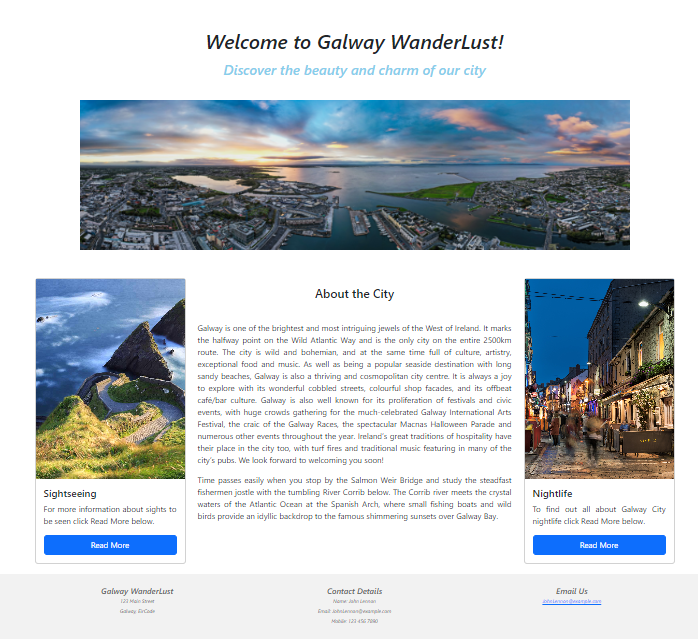
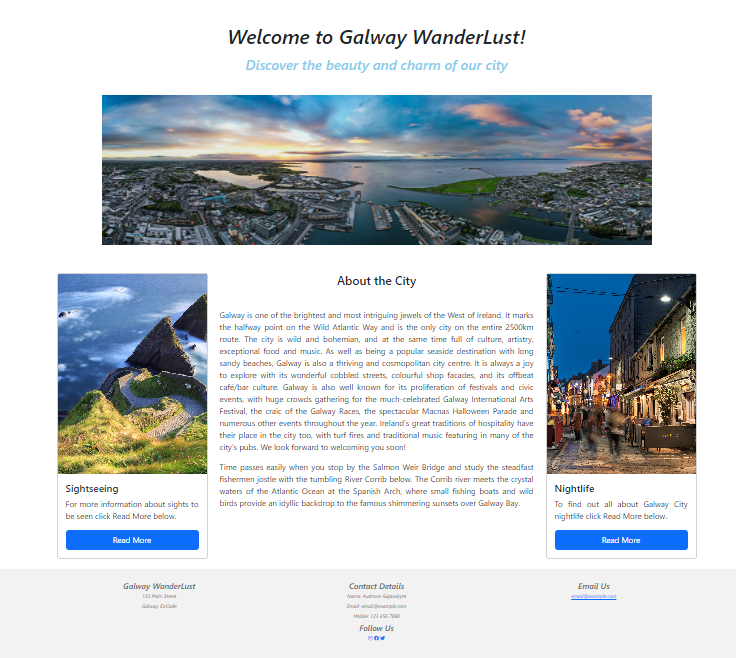
Edited some files

diff --git a/app.css b/app.css
@@ -1,21 +1,3 @@
-/* Center the image and text */
-.text-center {
-    text-align: center;
-}
-
-/* Center the image */
-.center-image {
-    display: flex;
-    justify-content: center;
-    align-items: center;
-    text-align: center;
-}
-
-/* Add padding after the image */
-.padded-image {
-    margin-bottom: 20px;
-}
-
 /* Styling for navbar */
 .navbar {
 	position: static;
@@ -33,7 +15,7 @@
 
 /* Styling for the container */
 .container {
-	padding: 20px
+	padding: 20px;
 }
 
 /* Styling for headers */
@@ -54,9 +36,6 @@ h2 {
 h3 {
 	color: skyblue;
 	font-style: italic;
-}
-
-h3 {
 	padding-bottom: 35px;
 }
 
@@ -104,9 +83,6 @@ h5 {
 /* Styling for columns */
 .col-sm-6 {
 	text-align: justify;
-}
-
-.col-sm-6 {
 	padding-top: 15px;
 }
 
@@ -123,13 +99,13 @@ h5 {
 }
 
 /* Styling for buttons */
-.btn btn-primary ml-lg-3 {
+.btn.btn-primary.ml-lg-3 {
 	background-color: white;
 	color: black;
 	border: 2px solid #008CBA;
 }
 
-.btn btn-primary {
+.btn.btn-primary {
 	background-color: white;
 	color: black;
 	border: 2px solid #008CBA;
@@ -145,7 +121,7 @@ h5 {
 	transform: scaleX(-1);
 }
 
-/*  Styling for form-group elements */
+/* Styling for form-group elements */
 .form-group {
 	margin: 15px;
 }
@@ -167,7 +143,6 @@ main {
 .remove-button {
 	background-color: darkgreen;
 	color: white;
-
 }
 
 /* Styling for footer */
@@ -191,6 +166,11 @@ footer h6 {
 
 footer p {
 	margin-bottom: 5px; /* Spacing above the footer */
+}
+
+/* Custom CSS for centering */
+.text-center {
+    text-align: center;
 }
 
 /* Responsive styling */
@@ -254,7 +234,3 @@ footer p {
         padding: 15px;
     }
 }
-
-
-
-

diff --git a/About.html b/About.html
@@ -71,8 +71,8 @@
                                 humour to each tour. Many of our returning customers will plan a trip around a specific driver as they had so much fun in the past.
                             </p>
 
-                            <div class="center-image" class="padded-image">
-                                <img class="flip" src="Images/GalwayScenery.jpg" alt="Panoramic View Over the Claddagh in Galway City" width="850" height="300">
+                            <div class="text-center">
+                                <img class="flip" src="Images/GalwayScenery.jpg" alt="Panoramic View Over the Claddagh in Galway City" width="940" height="350">
                             </div>
 
                             <p>

diff --git a/index.html b/index.html
@@ -46,7 +46,7 @@
     <div class="container text-center">
         <h1>Welcome to Galway WanderLust!</h1>
         <h3>Discover the beauty and charm of our city</h3>
-        <img src="Images/galwayDroneView.jpg" alt="Birds-eye View of Galway" width="1100" height="300" class="center-image">
+        <img src="Images/galwayDroneView.jpg" alt="Birds-eye View of Galway" width="1100" height="300" class="mx-auto d-block">
     </div>
 
         <!-- Bootsrap Row -->
